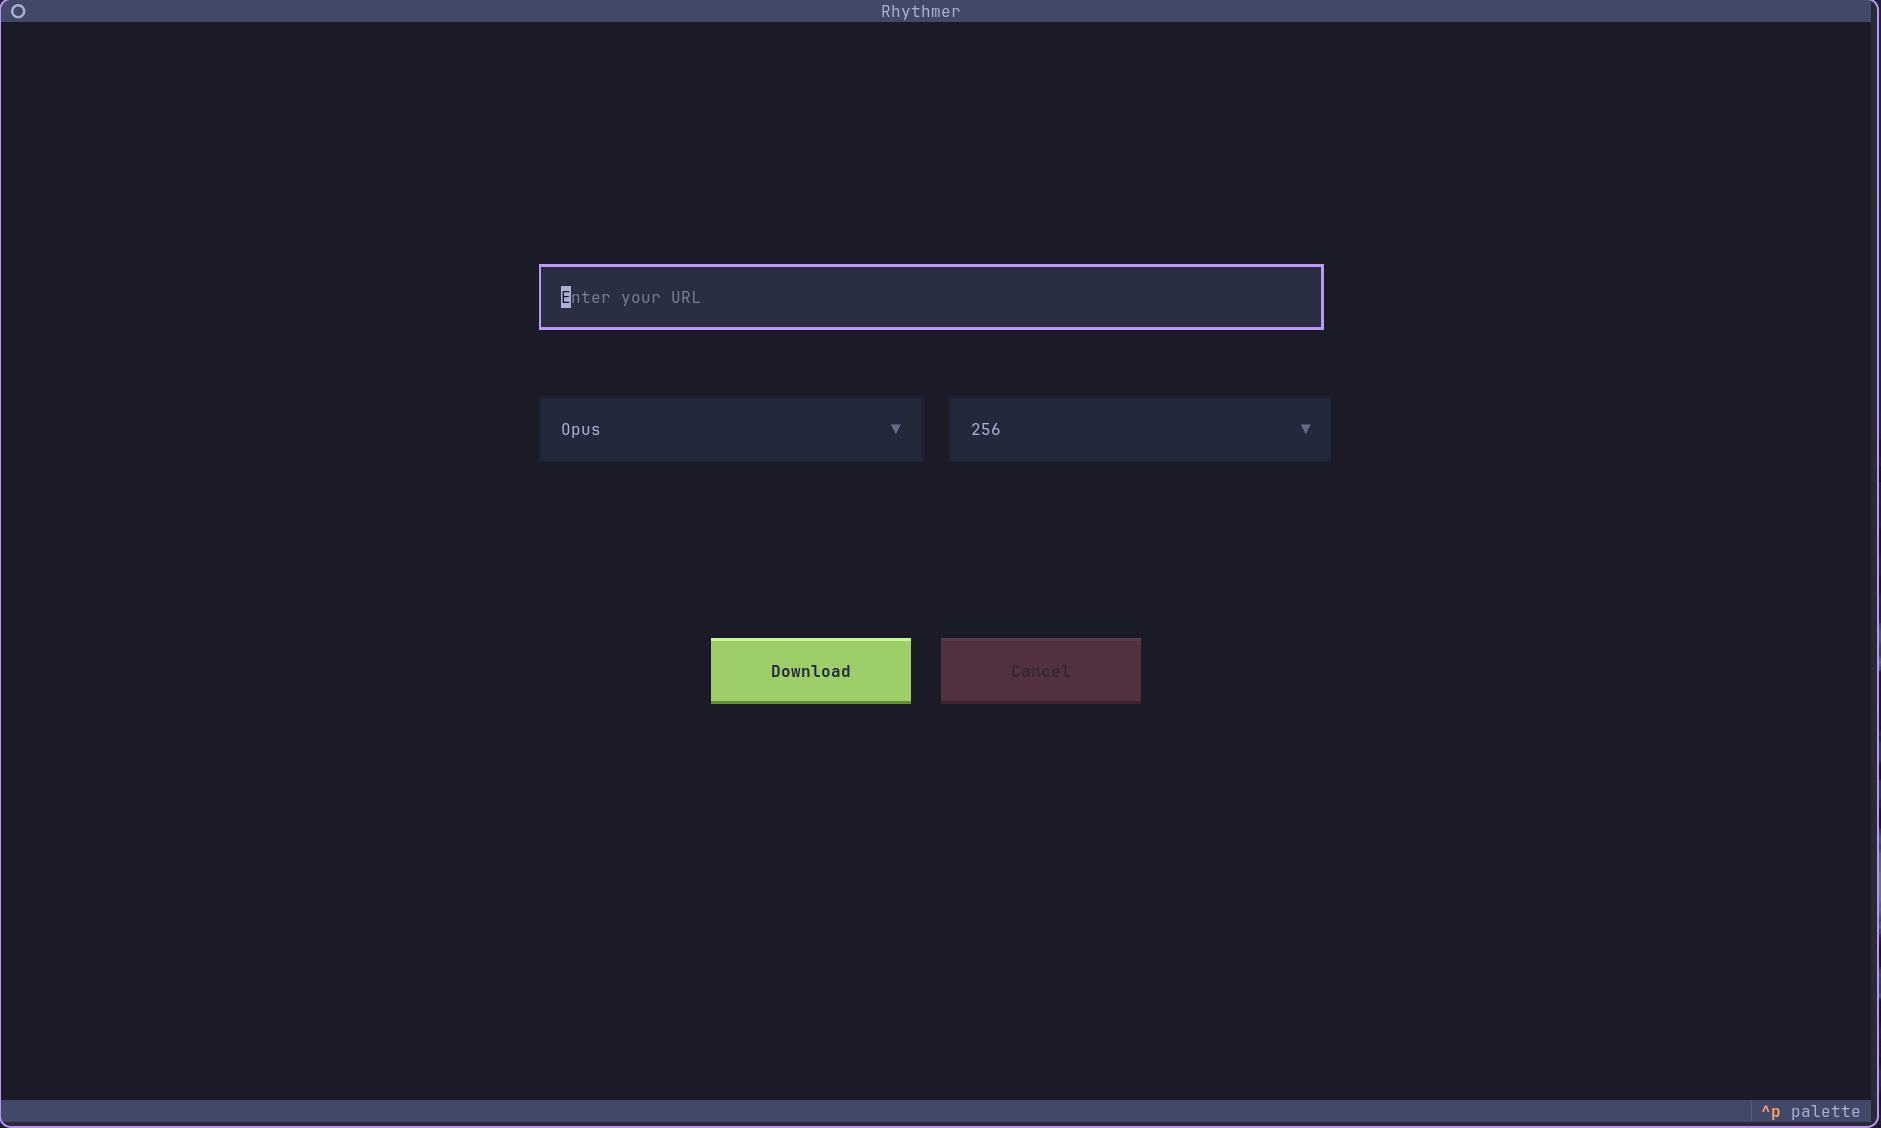
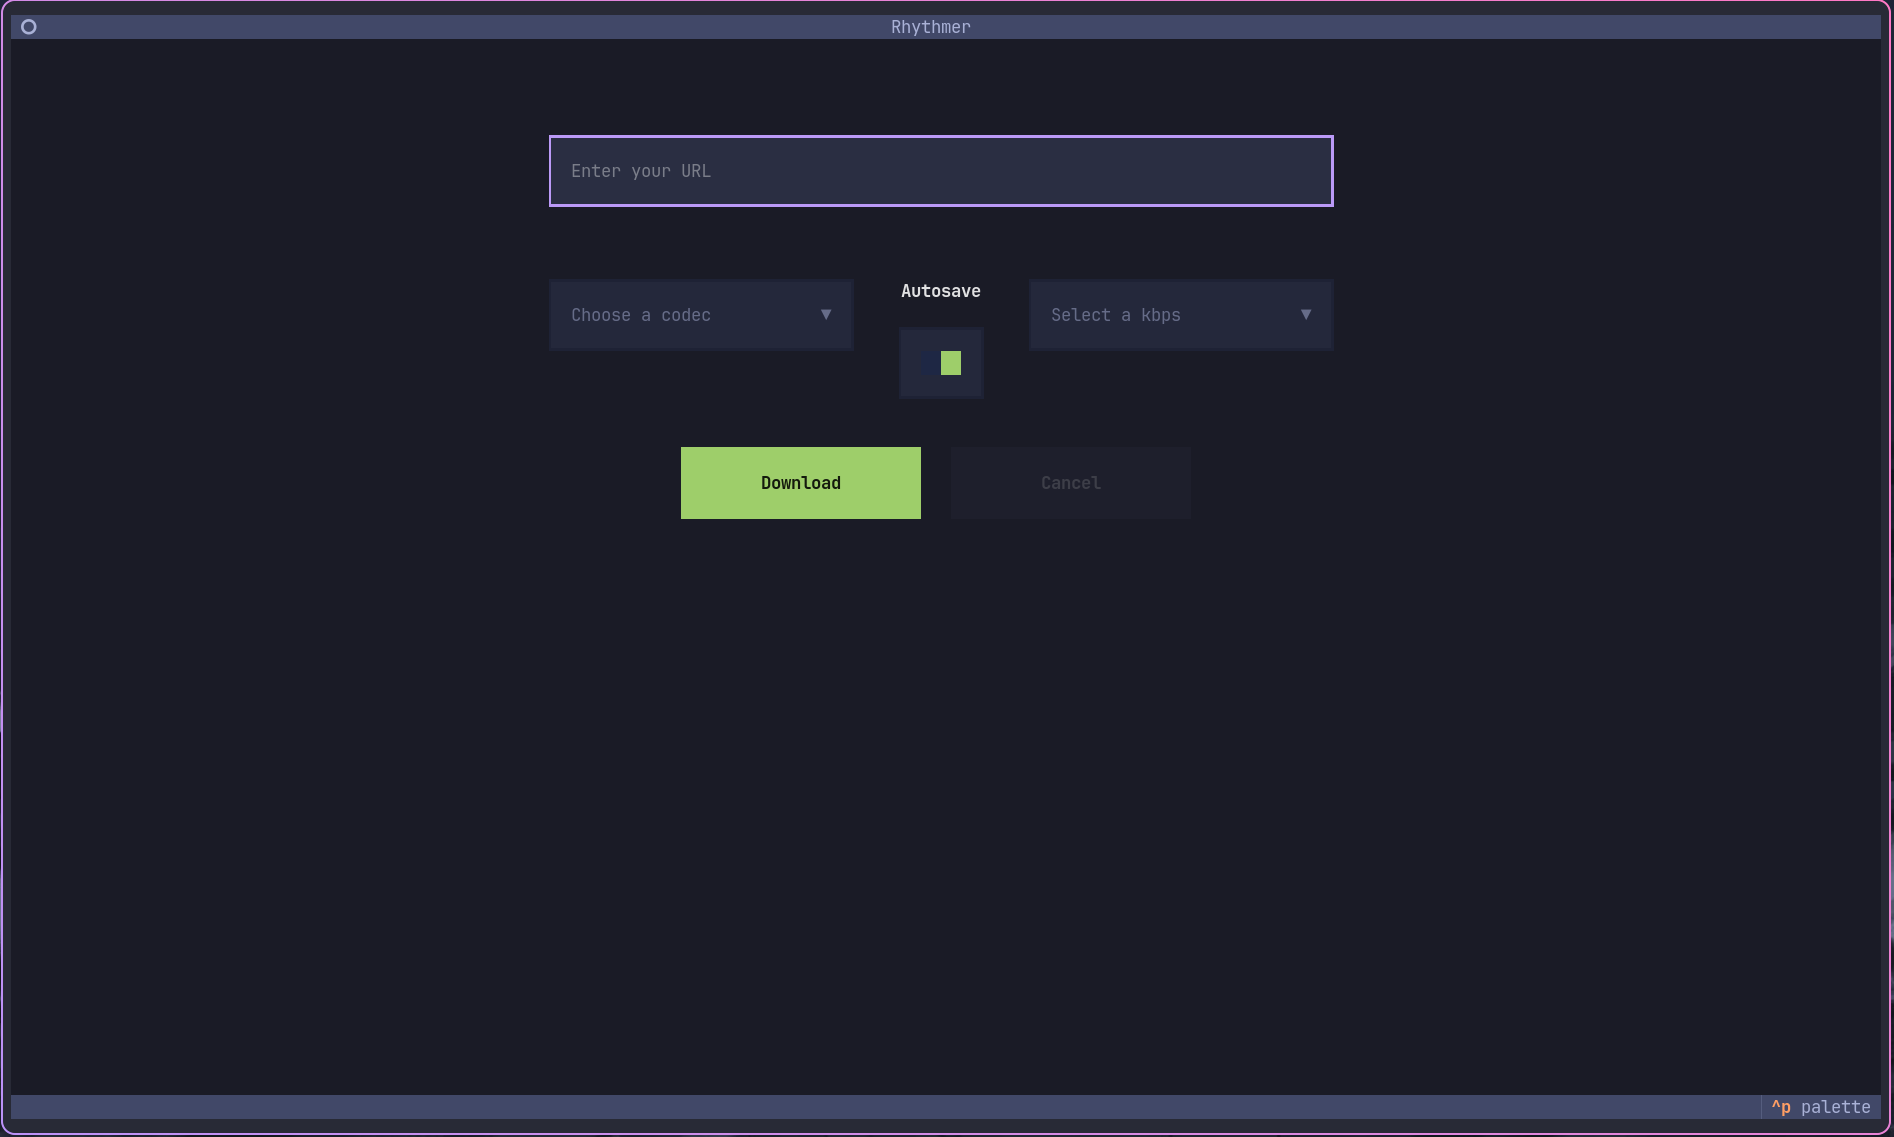
Thanked FFmpeg and changed the structure

diff --git a/README.md b/README.md
@@ -84,6 +84,7 @@ Rhythmer/
 ├── screenshot.png      # Application screenshot
 └── modules/
     ├── download.py     # Audio download logic
+    ├── configer.py     # Config Management
     └── colors.py       # Terminal colors
 ```
 
@@ -105,6 +106,7 @@ MIT License — see [LICENSE](LICENSE).
 - [Textual](https://github.com/Textualize/textual) – TUI framework
 - [yt-dlp](https://github.com/yt-dlp/yt-dlp) – YouTube download library
 - [mutagen](https://github.com/quodlibet/mutagen) — Audio metadata tagging
+- [FFmpeg](https://ffmpeg.org) – The Swiss Army knife of multimedia, handling video, audio, and everything in between with unparalleled versatility and speed.
 
 ## ⚠️ Disclaimer
 